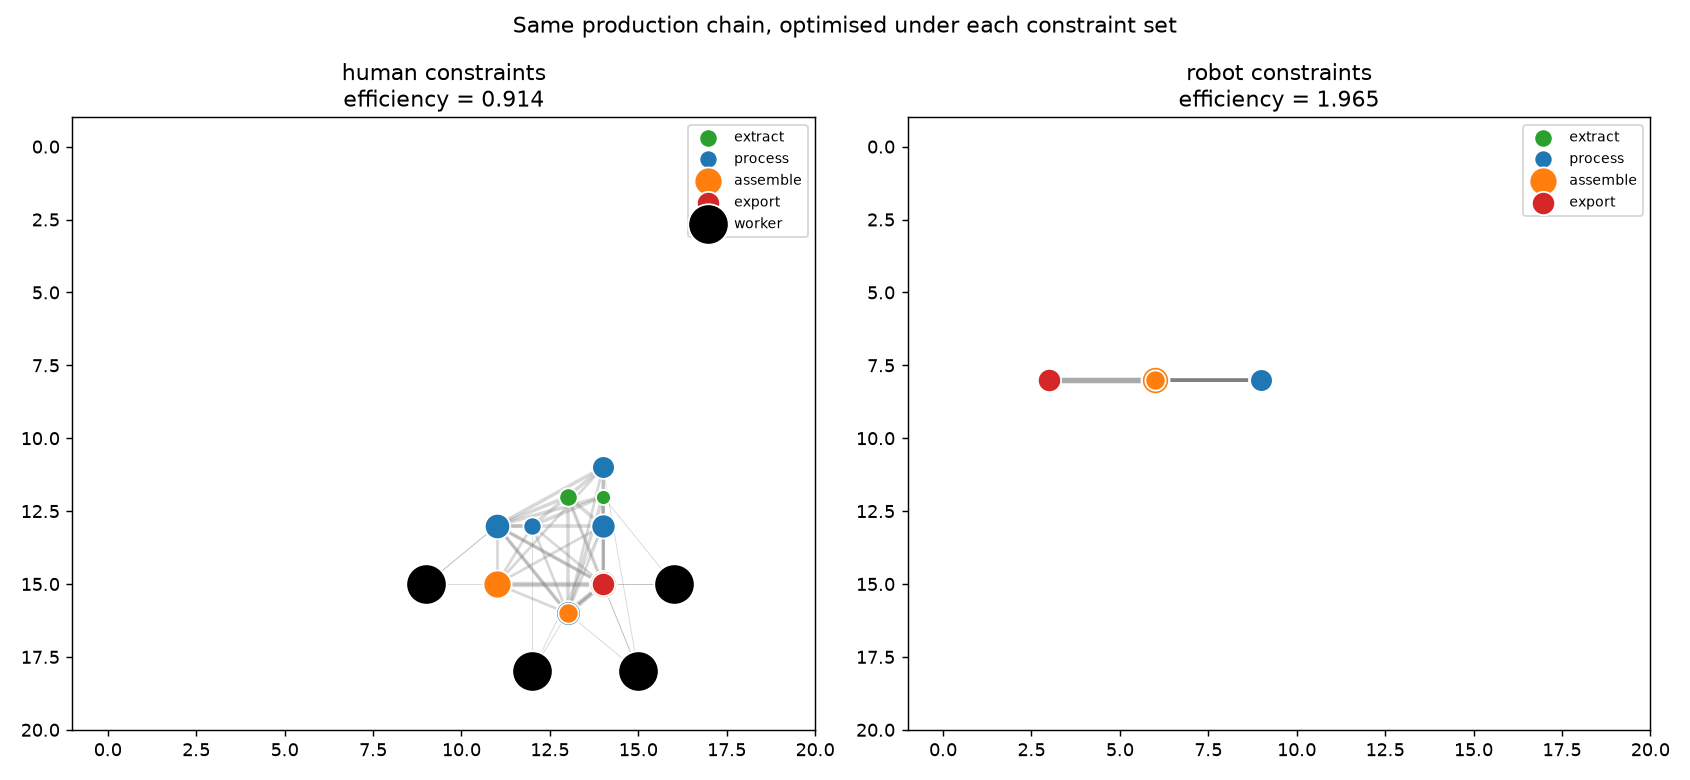
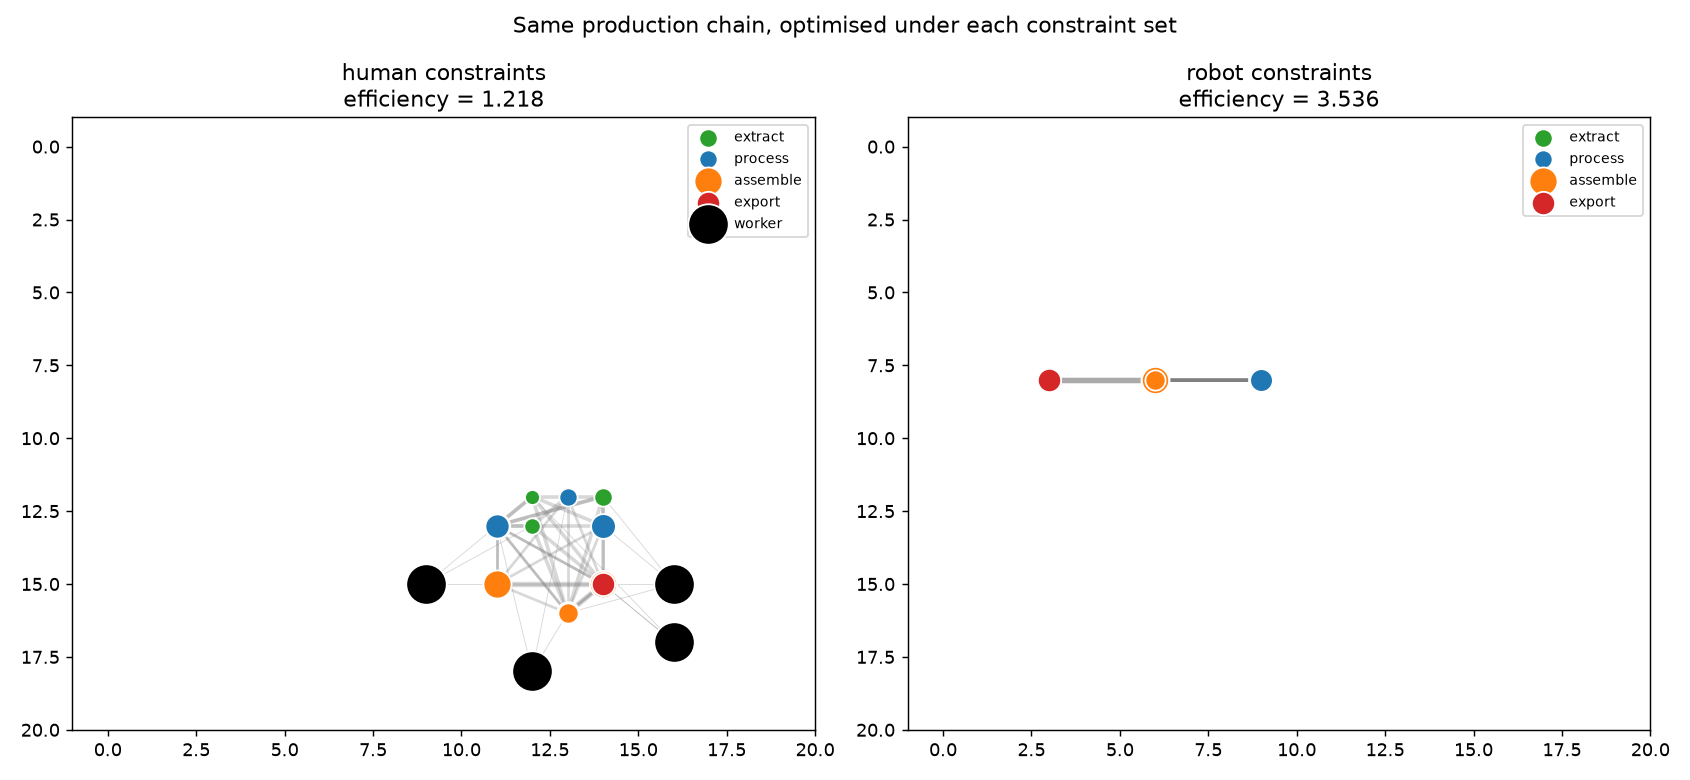
Make output agglomeration-dependent: interaction, not floor space, drives it
Output now carries an up-to +80% agglomeration bonus. Human interaction is
face-to-face with exp(-d/3) decay, so the human city wants density its own
zoning denies it and realises only 0.40 of the bonus; robot interaction is
network-speed and distance-free (fleet learning), collecting it fully.
Optimisers now maximise efficiency directly instead of minimising transport.

Result: robots out-produce the human city absolutely (output ratio 1.36),
not just per resource (rho ~2.9).

Claude-Session: https://claude.ai/code/session_018B21Q3nPziZ4SotrVLNRai

diff --git a/robot_city/city_env.py b/robot_city/city_env.py
@@ -34,6 +34,16 @@ Input channels:
 - maintenance (robot only): robots are not free - upkeep, spares and
   compute add a fraction on top of process input
 - transport: flow-weighted distance, as before (human mode adds commute)
+
+Output is NOT fixed: it carries an agglomeration term, because interaction
+- not floor space - is why cities are productive (Bettencourt/West
+superlinear scaling). Human interaction requires physical proximity (
+face-to-face knowledge spillovers decay over a few blocks), so the human
+city wants density that its own zoning and safety rules deny it. Robot
+interaction happens at network speed with fleet learning, so robots
+capture the full agglomeration bonus at any layout. This asymmetry is the
+model's answer to "can robots interacting like humans out-produce the
+human city, not just run cheaper".
 """
 
 from dataclasses import dataclass, field
@@ -42,7 +52,9 @@ import numpy as np
 import pandas as pd
 
 # --- production chain (identical in both modes) ---------------------------
-OUTPUT_UNITS = 1000.0      # abstract units produced when the chain is placed
+BASE_OUTPUT = 1000.0       # output with zero agglomeration benefit
+AGGLOM_GAIN = 0.8          # max output uplift from perfect interaction
+LAMBDA_FACE = 3.0          # face-to-face spillover decay length (cells)
 PROCESS_INTENSITY = 1.0    # input per 1,000 sqft of EFFECTIVE process floor
 SERVICE_INTENSITY = 0.5    # building-services input per 1,000 sqft gross
 OCCUPANT_FACTOR = 1.5      # occupied buildings spend ~1/3 more on people
@@ -201,8 +213,30 @@ class CityEnv:
             "transport": BETA * self.transport(assign),
         }
 
+    def interaction(self, assign: np.ndarray) -> float:
+        """Mean pairwise interaction strength across industrial nodes, in
+        [0, 1]. Human mode: knowledge spillovers decay with distance
+        (gravity form). Robot mode: network-speed communication and fleet
+        learning make interaction distance-free."""
+        if self.mode == "robot":
+            return 1.0
+        idx = [i for i, f in enumerate(self.facilities)
+               if f.kind == "industrial"]
+        pos = self.rc[assign]
+        total, pairs = 0.0, 0
+        for a in range(len(idx)):
+            for b in range(a + 1, len(idx)):
+                d = (abs(pos[idx[a]][0] - pos[idx[b]][0])
+                     + abs(pos[idx[a]][1] - pos[idx[b]][1]))
+                total += np.exp(-d / LAMBDA_FACE)
+                pairs += 1
+        return total / pairs
+
+    def output(self, assign: np.ndarray) -> float:
+        return BASE_OUTPUT * (1 + AGGLOM_GAIN * self.interaction(assign))
+
     def efficiency(self, assign: np.ndarray) -> float:
-        return OUTPUT_UNITS / sum(self.input_breakdown(assign).values())
+        return self.output(assign) / sum(self.input_breakdown(assign).values())
 
     def random_assignment(self, rng, max_tries: int = 200) -> np.ndarray:
         """Constructive sampling: place facilities one by one on cells with

diff --git a/robot_city/optimize.py b/robot_city/optimize.py
@@ -39,7 +39,7 @@ def greedy(env: CityEnv, seed: int = 0, passes: int = 3) -> np.ndarray:
     assign = env.random_assignment(rng)
     for _ in range(passes):
         for fi in order:
-            best_cell, best_cost = assign[fi], env.transport(assign)
+            best_cell, best_eff = assign[fi], env.efficiency(assign)
             allowed = np.flatnonzero(env.zone_ok[env.facilities[fi].kind])
             for cell in allowed:
                 if cell == assign[fi]:
@@ -48,18 +48,24 @@ def greedy(env: CityEnv, seed: int = 0, passes: int = 3) -> np.ndarray:
                 trial[fi] = cell
                 if not env.feasible(trial):
                     continue
-                cost = env.transport(trial)
-                if cost < best_cost:
-                    best_cell, best_cost = cell, cost
+                eff = env.efficiency(trial)
+                if eff > best_eff:
+                    best_cell, best_eff = cell, eff
             assign[fi] = best_cell
     return assign
 
 
 def anneal(env: CityEnv, iters: int = 6000, seed: int = 0,
            t0: float = 30.0, t1: float = 0.1) -> np.ndarray:
+    """Maximises efficiency; cost is scaled so temperatures stay meaningful
+    (efficiency differences per move are ~1e-3)."""
     rng = np.random.default_rng(seed)
+
+    def cost_of(a):
+        return -1000.0 * env.efficiency(a)
+
     cur = env.random_assignment(rng)
-    cur_cost = env.transport(cur)
+    cur_cost = cost_of(cur)
     best, best_cost = cur.copy(), cur_cost
     for step in range(iters):
         temp = t0 * (t1 / t0) ** (step / iters)
@@ -69,7 +75,7 @@ def anneal(env: CityEnv, iters: int = 6000, seed: int = 0,
         cand[fi] = rng.choice(allowed)
         if not env.feasible(cand):
             continue
-        cost = env.transport(cand)
+        cost = cost_of(cand)
         if cost < cur_cost or rng.random() < np.exp((cur_cost - cost) / temp):
             cur, cur_cost = cand, cost
             if cost < best_cost:

diff --git a/robot_city/run_comparison.py b/robot_city/run_comparison.py
@@ -46,7 +46,9 @@ def evaluate_mode(lots: pd.DataFrame, mode: str) -> dict:
         for method, a in (("random", rnd), ("greedy", grd), ("anneal", ann)):
             eff = env.efficiency(a)
             rows.append({"mode": mode, "method": method, "seed": seed,
-                         "transport": env.transport(a), "efficiency": eff})
+                         "transport": env.transport(a),
+                         "interaction": env.interaction(a),
+                         "output": env.output(a), "efficiency": eff})
             if method != "random" and eff > best_eff:
                 best_assign, best_env, best_eff = a, env, eff
     return {"rows": rows, "assign": best_assign, "env": best_env,
@@ -118,9 +120,16 @@ def main() -> None:
     rho = robot["eff"] / human["eff"]
     with open("outputs/efficiency_ratio.txt", "w") as fh:
         fh.write(f"{rho:.4f}\n")
-    print(f"\nbest human efficiency : {human['eff']:.4f}")
-    print(f"best robot efficiency : {robot['eff']:.4f}")
+    out_h = human["env"].output(human["assign"])
+    out_r = robot["env"].output(robot["assign"])
+    print(f"\nbest human efficiency : {human['eff']:.4f}"
+          f"  (output {out_h:.0f}, interaction "
+          f"{human['env'].interaction(human['assign']):.2f})")
+    print(f"best robot efficiency : {robot['eff']:.4f}"
+          f"  (output {out_r:.0f}, interaction 1.00)")
     print(f"efficiency ratio rho  : {rho:.3f}")
+    print(f"output ratio          : {out_r / out_h:.3f}"
+          " (>1 means robots out-produce, not just run cheaper)")
 
     for name, res in (("human", human), ("robot", robot)):
         bd = res["env"].input_breakdown(res["assign"])

diff --git a/robot_city/README.md b/robot_city/README.md
@@ -31,6 +31,7 @@ are precisely the constraints that vanish when no one is inside.
 | amenity overhead | x1.45 gross/net floor | x1.0 |
 | capacity utilisation | 75% (shifts, breaks, holidays) | 95% (lights-out 24/7) |
 | upkeep | - | +10% of process input (spares, compute) |
+| interaction | face-to-face, decays over ~3 cells | network-speed, distance-free |
 | binding limit | zoning | cooling: <= 12 MW per 3x3 block |
 
 Same production chain, same objective in both:
@@ -44,6 +45,16 @@ lighting, comfort HVAC - which a lights-out facility does not spend).
 Worker housing is derived from the implied workforce, not a token constant.
 Maintenance is a robot-only penalty so the comparison cuts both ways.
 Transport is flow-weighted distance; human mode adds commute flows.
+
+Output is not fixed: it carries an agglomeration bonus of up to +80%,
+because interaction - not floor space - is what makes cities productive
+(Bettencourt/West superlinear scaling). Human interaction is face-to-face
+and decays over a few blocks (gravity form, exp(-d/3)), so the human city
+*wants* the density its own zoning and safety rules deny it. Robot
+interaction runs at network speed with fleet learning, so robots collect
+the full bonus at any layout. This is the model's answer to the question
+"can robots interacting like humans out-produce the human city, not just
+run cheaper?"
 
 ## Files
 
@@ -71,22 +82,26 @@ python breakeven.py          # reads rho, prints payback table
 
 ## Current result (sample lots, 5 seeds)
 
-| mode | best efficiency | process | services | maintenance | transport |
-|---|---|---|---|---|---|
-| human constraints | 0.91 | 241 | 612 | 0 | 242 |
-| robot constraints | 1.96 | 241 | 127 | 24 | 117 |
-| **ratio rho** | **~2.15** | | | | |
+| mode | output | interaction | efficiency | process | services | maint. | transport |
+|---|---|---|---|---|---|---|---|
+| human constraints | 1320 | 0.40 | 1.22 | 241 | 612 | 0 | 232 |
+| robot constraints | 1800 | 1.00 | 3.54 | 241 | 127 | 24 | 117 |
+| **output ratio** | **1.36** | | **rho ~2.9** | | | | |
 
-Where the gap comes from (see `outputs/input_breakdown.png`): process input
-is identical by construction and robot upkeep is charged against the robot
-side, yet services dominate the gap (-79%): the human city must build 33%
-more floor for the same effective output (shift utilisation), gross it up
-45% for amenities, house its workforce on top, and light/heat it all for
-occupants. Transport follows (-52% including commute): denser placement
-once zoning and safety spacing are gone. The human city's efficiency drops
-below 1.0 - it spends more than it produces in these units - because it is
-carrying an entire support city on its back; that support burden, not the
-factory itself, is what a robot city deletes.
+Two headline numbers now, answering two different questions:
+
+- **Output ratio 1.36** - can robots *out-produce* the human city, not
+  just run cheaper? Yes: even optimised, the human city only realises
+  interaction 0.40 of 1.00, because zoning, safety spacing and its
+  housing ring keep production nodes apart; robots collect the full
+  agglomeration bonus regardless of layout.
+- **Efficiency ratio ~2.9** - per unit of resource, the robot city
+  produces ~3x. Services dominate the input gap (-79%): the human city
+  builds 33% more floor for the same effective output (shift
+  utilisation), grosses it up 45% for amenities, houses its workforce on
+  top, and lights/heats it all for occupants. The human city is carrying
+  an entire support city on its back; that burden, not the factory
+  itself, is what a robot city deletes.
 
 The optimised layouts tell the story: the human city pushes large worker-
 housing hubs to the safety perimeter (a dormitory-suburb ring, emerging
@@ -94,7 +109,7 @@ from the optimiser rather than assumed), while the robot city collapses
 into a few stacked clusters until the cooling limit binds - the bottleneck
 moves from zoning law to thermodynamics.
 
-Break-even at rho = 2.15: NYC residents need ~$500bn/yr of net product;
+Break-even at rho ~2.9: NYC residents need ~$500bn/yr of net product;
 capital of ~$0.6-1.6tn (at $75k-300k per job automated) pays back in ~1-3
 years of liberated wages. The result is dominated by capital cost
 assumptions, not by rho - an honest finding: *whether* to build is an
@@ -105,8 +120,11 @@ economics question, *how well* it can run is the optimisation question.
 - Sample lots stand in for real PLUTO until the CSV is downloaded; the
   parameters (overhead factor, utilisation rates, floor-per-worker, cooling
   cap, power density, maintenance fraction) are order-of-magnitude
-  engineering values with cited anchors, not calibrated fits - rho should
-  be read as "roughly 2x", not "2.15".
+  engineering values with cited anchors, not calibrated fits - read the
+  ratios as "roughly 1.4x output, roughly 3x per resource", not as
+  precise values. The distance-free robot interaction (=1.0) is the most
+  optimistic assumption in the model; coordination overhead between robot
+  fleets would pull it below 1 and is worth a sensitivity sweep.
 - Optimisers are classical; the planned contribution is an RL policy
   (PPO + GNN over the lot graph) benchmarked against these baselines.
 - Single objective (transport efficiency); the multi-objective version
